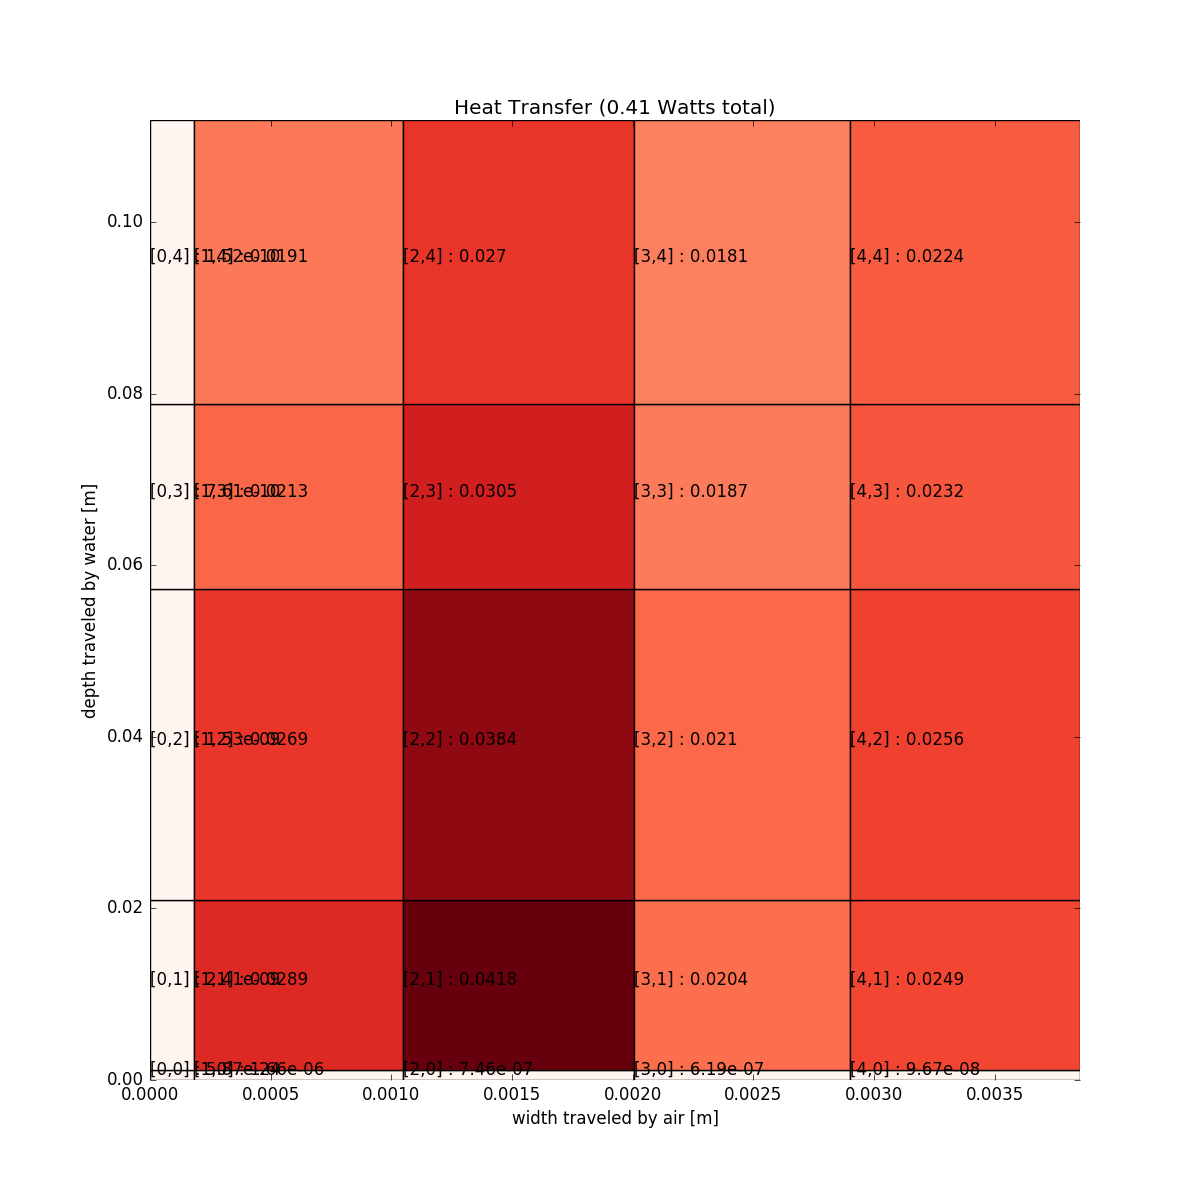
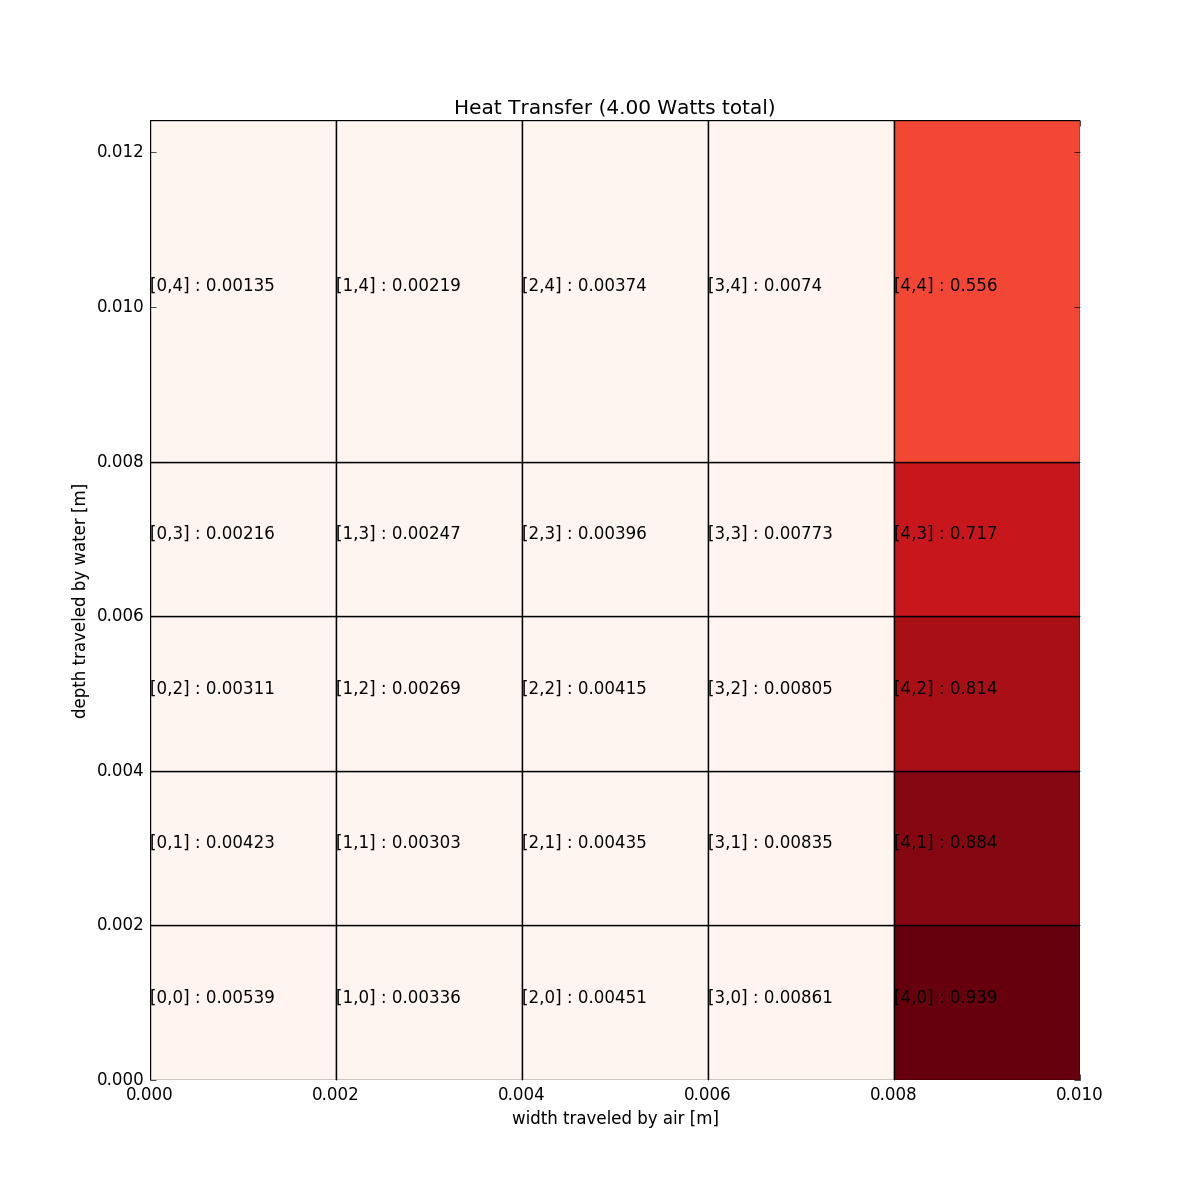
Penalty based tight formulation! Finally.

diff --git a/heatexchanger/layer.py b/heatexchanger/layer.py
@@ -1,6 +1,6 @@
 from gpkit import Model, parse_variables, Vectorize, SignomialsEnabled, units
 from gpkit.constraints.bounded import Bounded
-from fluids import Air, Water
+from materials import Air, Water, StainlessSteel
 from hxarea import HXArea
 from rectpipe import RectangularPipe
 from relaxed_constants import relaxed_constants
@@ -9,10 +9,12 @@ import numpy as np
 
 class Layer(Model):
     """
+    Combines heat exchanger pipes into a 2D layer
+
     Variables
     ---------
     Q          [W]       heat transferred from air to liquid
-    V_tot    1 [cm^3]    total volume
+    V_tot      [cm^3]    total volume
 
     Lower Unbounded
     ---------------
@@ -50,17 +52,19 @@ class Layer(Model):
             #       it's already alllllmost GP, solving in 3-9 GP solves
             SP_Qsum = Q <= c.dQ.sum()
             for i in range(Nwaterpipes):
-                waterCf.extend([waterpipes.D[i] >= waterpipes.fr[i]*waterpipes.A_seg[i,0]])
+                waterCf.extend([waterpipes.D[i] >= waterpipes.fr[i]*waterpipes.A_seg[i,0],
+                                waterpipes.fr[i] >= waterpipes.dP[i,:].sum()])
                 for j in range(Nairpipes):
                     waterCf.extend([waterpipes.l[i,j] <= sum(airpipes.w[0:j+1]),
-                                    waterpipes.dP[i,j] >= 0.5*water.rho*waterpipes.v_avg[i,j]**2*waterpipes.Cf[i,j]*waterpipes.l_seg[i,j]/waterpipes.dh[i,j],
+                                    waterpipes.dP[i,j] >= waterpipes.dP_scale[i]*0.5*water.rho*waterpipes.v_avg[i,j]**2*waterpipes.Cf[i,j]*waterpipes.l_seg[i,j]/waterpipes.dh[i,j],
                                     waterpipes.D_seg[i,j] == 0.5*water.rho*waterpipes.v_avg[i,j]**2*waterpipes.Cf[i,j]*waterpipes.w[i]*waterpipes.l_seg[i,j],
                                             ])
             for i in range(Nairpipes):
-                airCf.extend([airpipes.D[i] >= airpipes.fr[i]*airpipes.A_seg[i,0]])
+                airCf.extend([airpipes.D[i] >= airpipes.fr[i]*airpipes.A_seg[i,0],
+                              airpipes.fr[i] >= airpipes.dP[i,:].sum()])
                 for j in range(Nwaterpipes):
                     airCf.extend([airpipes.l[i,j] <= sum(waterpipes.w[0:j+1]),
-                                  airpipes.dP[i,j] >= 0.5*air.rho*airpipes.v_avg[i,j]**2*airpipes.Cf[i,j]*airpipes.l_seg[i,j]/airpipes.dh[i,j],
+                                  airpipes.dP[i,j] >= airpipes.dP_scale[i]*0.5*air.rho*airpipes.v_avg[i,j]**2*airpipes.Cf[i,j]*airpipes.l_seg[i,j]/airpipes.dh[i,j],
                                   airpipes.D_seg[i,j] == 0.5*air.rho*airpipes.v_avg[i,j]**2*airpipes.Cf[i,j]*airpipes.w[i]*airpipes.l_seg[i,j],
                                             ])
 
@@ -68,21 +72,13 @@ class Layer(Model):
 
         # Arbitrary bounding for convergence.
         for i in range(Nwaterpipes):
-            continue
-            geom.extend([waterpipes.w[i] >= 0.1*units('cm'),
-                         waterpipes.h_seg[i,:] >= 0.1*units('cm'),
-                         ])
-        for j in range(Nairpipes):
-            continue
-            geom.extend([airpipes.w[j] >= 0.1*units('cm'),
-                         airpipes.h_seg[j,:] >= 0.1*units('cm'),
-                         ])
-        for i in range(Nwaterpipes):
             for j in range(Nairpipes):
                 geom.extend([c.x_cell[i,j] == waterpipes.w[i],
                              c.x_cell[i,j] == airpipes.l_seg[j,i],
                              c.y_cell[i,j] == airpipes.w[j],
                              c.y_cell[i,j] == waterpipes.l_seg[i,j],
+                             c.x_cell[i,j] >= 0.2*units('cm'),
+                             c.y_cell[i,j] >= 0.2*units('cm'),
                              ])
 
         # Linking pipes in c
@@ -97,6 +93,8 @@ class Layer(Model):
                         c.T_cld[i,j] == airpipes.T_avg[j,i],
                         c.T_hot[i,j] >= c.T_r[i,j],
                         c.T_r[i,j] >= c.T_cld[i,j],
+                        waterpipes.h_seg[i,j] >= 0.2*units('cm'),
+                        airpipes.h_seg[j,i] >= 0.2*units('cm'),
                     ])
 
         return [
@@ -112,12 +110,23 @@ class Layer(Model):
             #DRAG
             waterCf,
             airCf,
+
+            # HEAT EXCHANGE REQUIREMENT
+            Q >= 4*units('W'),
+
+            # TOTAL VOLUME REQUIREMENT
+            V_tot <= 1*units('cm^3'),
         ]
 
 
 if __name__ == "__main__":
     m = Layer(5, 5)
-    m.cost = 1/m.Q + 100*m.waterpipes.D.sum()*units('1/(N*W)')+ 1000*m.airpipes.D.sum()*units('1/(N*W)') + 1000*m.waterpipes.D_seg.sum()*units('1/(N*W)')+ 100*m.airpipes.D_seg.sum()*units('1/(N*W)')
+    # m.substitutions.update({
+    #     'V_tot':1*units('cm^3'),
+    #     'Q'    :4*units('W')
+    #     })
+    penalties = (m.waterpipes.dP_scale.prod()*m.airpipes.dP_scale.prod()*m.waterpipes.dT.prod()*m.airpipes.dT.prod())**-1
+    m.cost = penalties*1*m.Q**-1*(1*m.waterpipes.D.sum()+ 1*m.airpipes.D.sum() + 1*m.waterpipes.D_seg.sum()+ 1*m.airpipes.D_seg.sum())
     #m = Model(m.cost,Bounded(m))
     m = relaxed_constants(m)
     sol = m.localsolve(verbosity=4)

diff --git a/heatexchanger/rectpipe.py b/heatexchanger/rectpipe.py
@@ -3,6 +3,8 @@ from gpkit import Model, parse_variables, SignomialEquality, SignomialsEnabled, 
 
 class RectangularPipe(Model):
     """
+    Defines heat exchanger pipe elements, and the fluid-wall interactions
+
     Variables
     ---------
     mdot                  [kg/s]   mass flow rate
@@ -19,15 +21,17 @@ class RectangularPipe(Model):
     Pf_ref      21.66     [-]      reference pressure drop parameter
     Re_ref      90550     [-]      reference Reynolds number
     fr                    [Pa]     force per frontal area
+    dP_scale              [-]      friction scaling
     
     Variables of length Nsegments+1
-    -------------------------------sol
+    -------------------------------
     v                     [m/s]    fluid velocity
     T                     [K]      fluid temperature
     P0                    [Pa]     fluid total pressure
 
     Variables of length Nsegments
     -----------------------------
+    alpha                 [-]      Temperature ratio over segment
     dT                    [K]      Change in fluid temperature over segment
     dQ                    [W]      Magnitude of heat transfer over segment
     T_avg                 [K]      Average temperature over segment
@@ -40,9 +44,10 @@ class RectangularPipe(Model):
     l_seg                 [m]      Segment flow length
     Cf                    [-]      Coefficient of friction over segment 
     Re                    [-]      Reynolds number
-    D_seg                 [N]      segment drag
     dP                    [Pa]     segment pressure drop
     Tr_int                [K]      wall-fluid interface temperature
+    D_seg                 [N]      segment drag
+
   
     Upper Unbounded
     ---------------
@@ -53,6 +58,8 @@ class RectangularPipe(Model):
     dQ, T_out (if not increasingT), P0
 
     """
+
+
     def setup(self, Nsegments, fluid, increasingT):
         calc_p0in = lambda self, c: c[self.P_i] + 0.5*c[self.rho_i]*c[self.V_i]**2
 
@@ -84,6 +91,7 @@ class RectangularPipe(Model):
                         P0[-1] >= P_out + 0.5*fluid.rho*v_out**2, # exit total pressure 
                         P0[0] >= P0[-1] + 0.5*fluid.rho*v_out**2*Pf + 0.5*fluid.rho*v_in**2,
                         P0[:-1] >= P0[1:] + dP,
+                        dP <= fluid.rho*v[0:-1]*(v[0:-1] - v[1:]),
                         # effectiveness fit
                         eta_h/eta_h_ref == 0.799*Re_rat[-1]**-0.0296,
                         eta_h <= 0.844,  # boundary to make sure fit is valid

diff --git a/heatexchanger/cellplot.py b/heatexchanger/cellplot.py
@@ -102,7 +102,7 @@ if __name__ == "__main__":
     f.savefig("plots/waterD.png")
 
     # Air drag in each cell
-    airD = sum(sum(sol(m.original.airpipes.D_seg).magnitude))
+    airD = sum(sum(sol(m.original.airpipes.D_seg).T.magnitude))
     f, a = plot_cells(m, sol(m.original.airpipes.D_seg), cm=cm.Reds, zscale=1/Nw/Na, zoff=0.625/Nw/Na, verbosity=2)
     a.set_title("Drag force due to each air cell (%.2f N total)" % airD)
     f.savefig("plots/airD.png")
